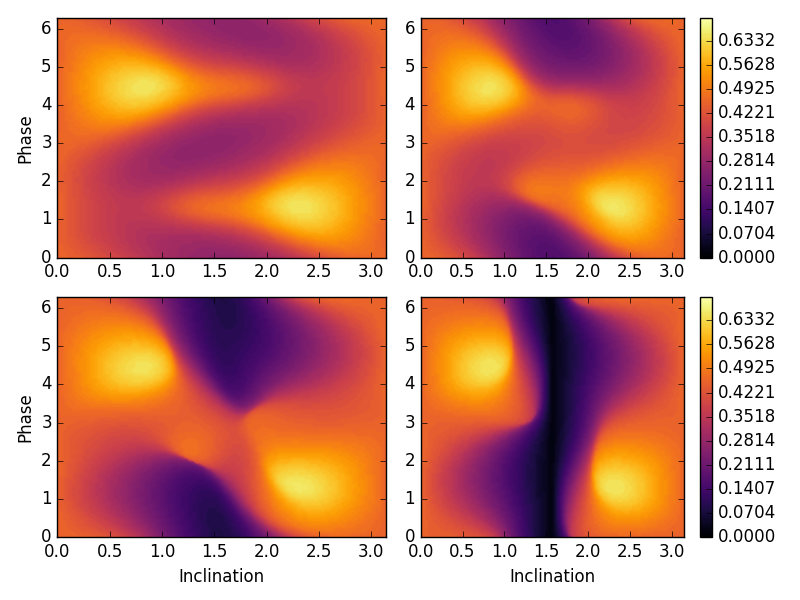
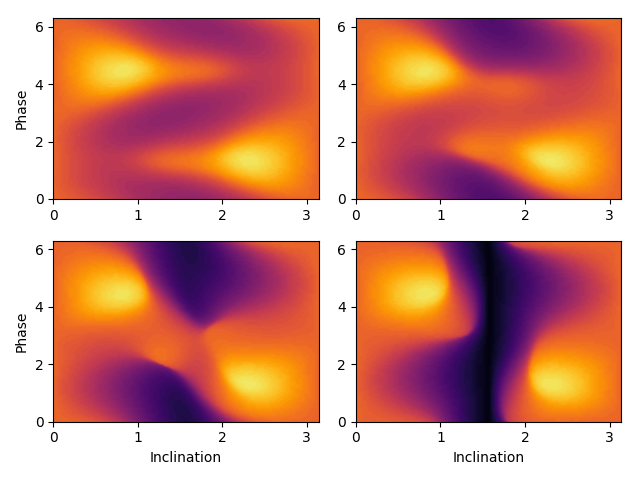
Will add colourbar manuall

diff --git a/Matching/2D_data/multiPhase.py b/Matching/2D_data/multiPhase.py
@@ -24,7 +24,6 @@ plt.subplot(2,2,1)
 plt.contourf(x,y,z,200,levels=levels,cmap="inferno")
 plt.ylabel("Phase")
 plt.subplot(2,2,2)
-plt.colorbar()
 plt.contourf(x2,y,z2,200,levels=levels,cmap="inferno")
 plt.subplot(2,2,3)
 plt.contourf(x3,y,z3,200,levels=levels,cmap="inferno")
@@ -33,7 +32,6 @@ plt.ylabel("Phase")
 plt.subplot(2,2,4)
 plt.contourf(x4,y,z4,200,levels=levels,cmap="inferno")
 plt.xlabel("Inclination")
-plt.colorbar()
 plt.tight_layout()
 plt.show("hold")
 plt.savefig("multi.png")
